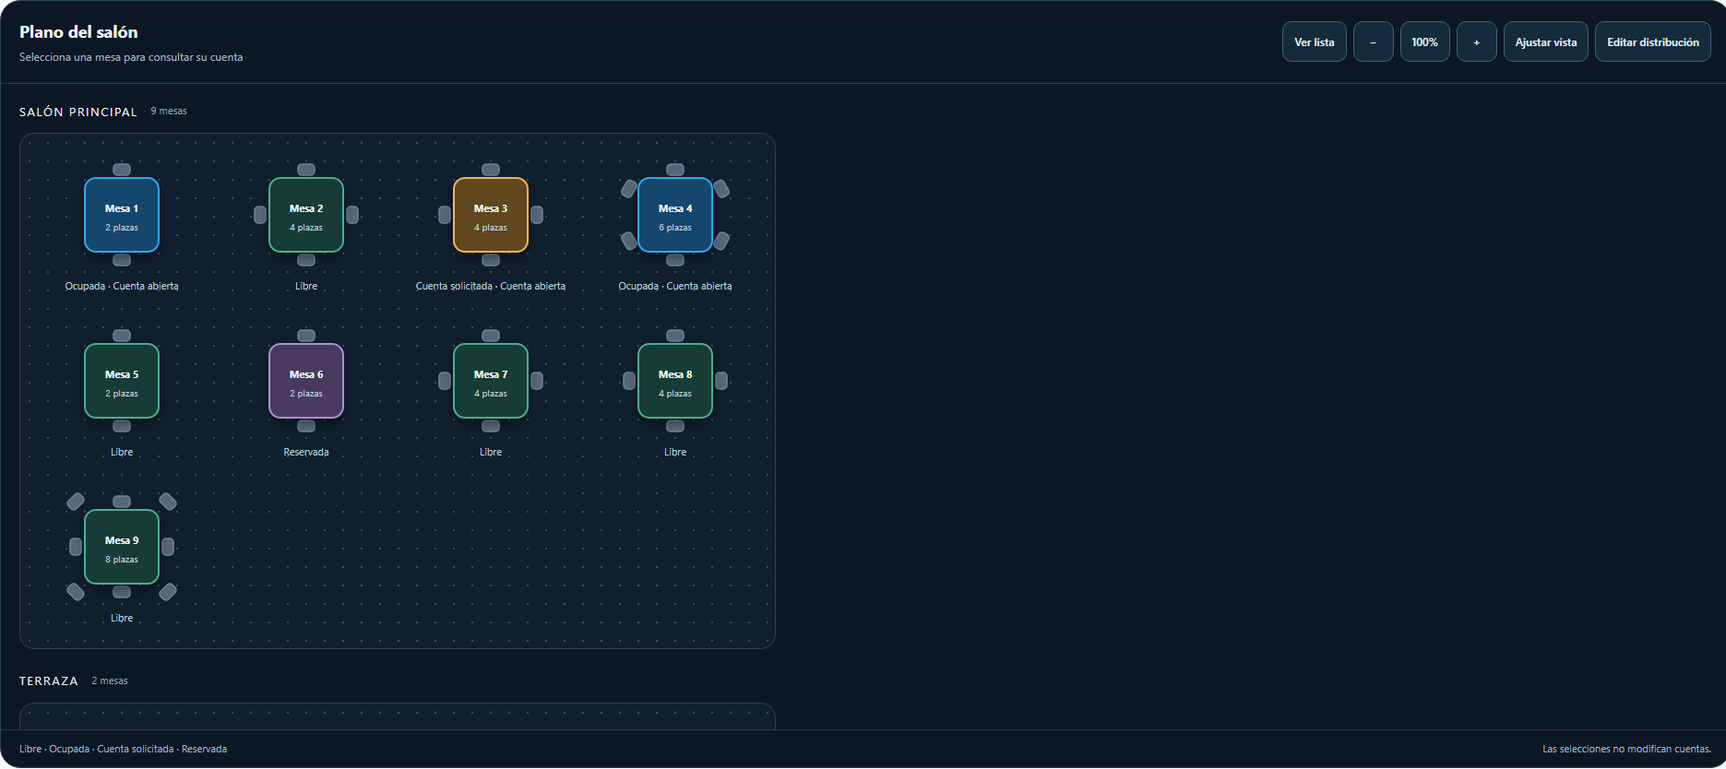
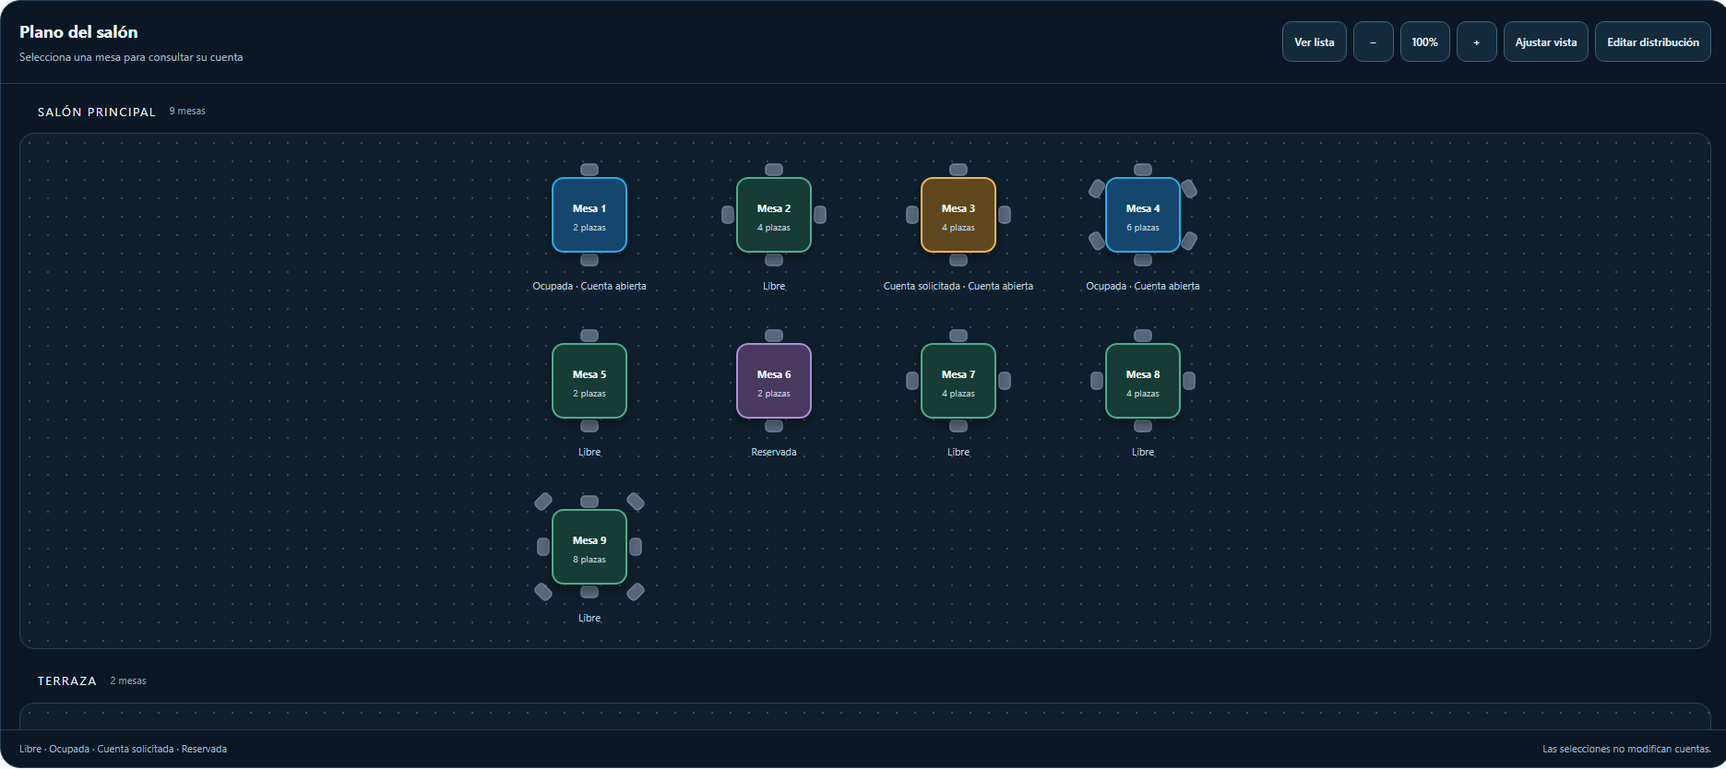
fix(restaurant): keep floor layout editing demo-only

diff --git a/src/modules/restaurant/components/RestaurantTables.tsx b/src/modules/restaurant/components/RestaurantTables.tsx
@@ -3,6 +3,7 @@ import { ArrowRight, Clock, Plus, Search, Users, X } from 'lucide-react'
 import type { Order, Product } from '../../../types'
 import type { RestaurantSector, RestaurantTable } from '../types'
 import type { FloorAction } from '../domain/restaurantFloor'
+import { dispatchRestaurantFloorAction } from '../domain/restaurantFloorEditorPolicy'
 
 import { RestaurantFloorCanvas } from './RestaurantFloorCanvas'
 import { RestaurantFloorManager } from './RestaurantFloorManager'
@@ -26,7 +27,7 @@ const minutesSince = (value: string | undefined, now: number) => {
   return Number.isNaN(opened.getTime()) ? null : Math.max(0, Math.floor((now - opened.getTime()) / 60000))
 }
 const STATUS_LABEL: Record<string, string> = { pending: 'Pendiente', preparing: 'En preparación', ready: 'Listo', ready_for_pickup: 'Listo', delivered: 'Entregado' }
-export function RestaurantTables({ tables, sectors, canManageFloor, onFloorAction, orders, products, customers = [], onSaveCustomer, onAssignCustomer, enabled, initialTableId, onOpenTableOrder, onUpdateTableStatus, onRequestBill, onReopenBill, onPayment, onAddProduct, onPrintBatch, onCancelOrderItem, onCreateProduct, onStartTour }: { tables: RestaurantTable[]; sectors: RestaurantSector[]; canManageFloor: boolean; onFloorAction: (action: FloorAction) => { ok: boolean; error?: string } | Promise<{ ok: boolean; error?: string }>; orders: Order[]; products: Product[]; customers?: RestaurantCustomer[]; onSaveCustomer?: (draft: CustomerDraft) => (RestaurantCustomer | null) | Promise<RestaurantCustomer | null>; onAssignCustomer?: (orderId: string, customerId: string | undefined) => void | Promise<void>; enabled: boolean; initialTableId?: string | null; onOpenTableOrder: (table: RestaurantTable & { customerId?: string; customerName?: string; customerPhone?: string }) => void | Promise<void>; onUpdateTableStatus: (tableId: string, status: RestaurantTable['status']) => void | Promise<void>; onRequestBill: (tableId: string) => void | Promise<void>; onReopenBill: (tableId: string) => void | Promise<void>; onPayment: (orderId: string, input: Payment) => void | Promise<void>; onAddProduct: (orderId: string, input: ProductInput) => void | Promise<void>; onPrintBatch: (orderId: string) => boolean | Promise<boolean>; onCancelOrderItem?: (orderId: string, itemId: string, quantity: number) => boolean | Promise<boolean>; onCreateProduct: (tableId: string, input: { name: string; categoryName: string; price: number; preparationArea: string }, orderId?: string) => void | Promise<void>; onStartTour?: () => void }) {
+export function RestaurantTables({ tables, sectors, canManageFloor, canEditLayout, onFloorAction, orders, products, customers = [], onSaveCustomer, onAssignCustomer, enabled, initialTableId, onOpenTableOrder, onUpdateTableStatus, onRequestBill, onReopenBill, onPayment, onAddProduct, onPrintBatch, onCancelOrderItem, onCreateProduct, onStartTour }: { tables: RestaurantTable[]; sectors: RestaurantSector[]; canManageFloor: boolean; canEditLayout: boolean; onFloorAction: (action: FloorAction) => { ok: boolean; error?: string } | Promise<{ ok: boolean; error?: string }>; orders: Order[]; products: Product[]; customers?: RestaurantCustomer[]; onSaveCustomer?: (draft: CustomerDraft) => (RestaurantCustomer | null) | Promise<RestaurantCustomer | null>; onAssignCustomer?: (orderId: string, customerId: string | undefined) => void | Promise<void>; enabled: boolean; initialTableId?: string | null; onOpenTableOrder: (table: RestaurantTable & { customerId?: string; customerName?: string; customerPhone?: string }) => void | Promise<void>; onUpdateTableStatus: (tableId: string, status: RestaurantTable['status']) => void | Promise<void>; onRequestBill: (tableId: string) => void | Promise<void>; onReopenBill: (tableId: string) => void | Promise<void>; onPayment: (orderId: string, input: Payment) => void | Promise<void>; onAddProduct: (orderId: string, input: ProductInput) => void | Promise<void>; onPrintBatch: (orderId: string) => boolean | Promise<boolean>; onCancelOrderItem?: (orderId: string, itemId: string, quantity: number) => boolean | Promise<boolean>; onCreateProduct: (tableId: string, input: { name: string; categoryName: string; price: number; preparationArea: string }, orderId?: string) => void | Promise<void>; onStartTour?: () => void }) {
   const [selectedZone, setSelectedZone] = useState('all')
   const [managing, setManaging] = useState(false)
   const [editingLayout, setEditingLayout] = useState(false)
@@ -147,6 +148,7 @@ export function RestaurantTables({ tables, sectors, canManageFloor, onFloorActio
   const occupiedCount = liveTables.filter(table => table.status === 'occupied').length
   const billCount = liveTables.filter(table => table.status === 'bill_requested').length
   const reservedCount = liveTables.filter(table => table.status === 'reserved').length
+  const handleFloorLayoutSave = (action: FloorAction) => dispatchRestaurantFloorAction(action, canEditLayout, onFloorAction)
 
   return <div className="space-y-4">
     <header className="flex flex-col gap-3 sm:flex-row sm:items-center sm:justify-between"><div><h1 className="text-2xl font-bold text-slate-900">Salón & Mesas</h1><p className="text-sm text-slate-500">Selecciona una mesa para ver su pedido y cuenta.</p></div><div className="flex flex-wrap items-center gap-2">{onStartTour && <button data-tour="tables-start-tour" type="button" onClick={onStartTour} className="rounded-xl border border-slate-200 bg-white px-3 py-2 text-sm font-semibold text-slate-800 transition-colors hover:border-slate-300 hover:bg-slate-50 focus-visible:outline focus-visible:outline-2 focus-visible:outline-offset-2 focus-visible:outline-blue-600">¿Cómo funciona?</button>}{canManageFloor && <button type="button" disabled={editingLayout} onClick={() => setManaging(value => !value)} className="rounded-xl border border-slate-200 bg-white px-4 py-2 text-sm font-semibold text-slate-800 transition-colors hover:border-slate-300 hover:bg-slate-50 focus-visible:outline focus-visible:outline-2 focus-visible:outline-offset-2 focus-visible:outline-blue-600">{managing ? 'Volver al salón' : 'Administrar salón'}</button>}</div></header>
@@ -156,7 +158,7 @@ export function RestaurantTables({ tables, sectors, canManageFloor, onFloorActio
     {!activeSectors.length && !managing && <p data-tour="tables-empty-state" className="rounded-xl border border-dashed border-slate-300 p-5 text-sm text-slate-600">No hay sectores activos configurados. {canManageFloor ? 'Usa Administrar salón para crear el primero.' : 'Pide a un administrador que configure el salón.'}</p>}
     {!enabled && <p className="rounded-xl border border-amber-200 bg-amber-50 p-3 text-sm text-amber-900">Debes iniciar un turno antes de realizar operaciones.</p>}
     {!managing && <>
-    <RestaurantFloorCanvas tables={filteredTables} sectors={sectors} selectedId={selected?.id} canEdit={canManageFloor} onEditingChange={setEditingLayout} onSave={onFloorAction} onSelect={table => { setSelected(table); setShowAdd(false); setPaying(false); setCustomerId('') }} />
+    <RestaurantFloorCanvas tables={filteredTables} sectors={sectors} selectedId={selected?.id} canEdit={canEditLayout} onEditingChange={setEditingLayout} onSave={handleFloorLayoutSave} onSelect={table => { setSelected(table); setShowAdd(false); setPaying(false); setCustomerId('') }} />
     </>}
     {selected && <div className="fixed inset-0 z-[100] flex justify-end bg-slate-950/45" onClick={() => setSelected(null)}><aside data-floor-details role="dialog" aria-modal="true" aria-label={`Detalle de ${selected.name}`} onClick={(event) => event.stopPropagation()} className="flex h-full w-full max-w-xl flex-col overflow-y-auto bg-white shadow-2xl"><header className="sticky top-0 z-10 flex items-start justify-between border-b border-slate-200 bg-white px-4 py-4 sm:px-5"><div className="min-w-0"><div className="flex flex-wrap items-center gap-2"><h2 className="text-xl font-bold text-slate-900 [overflow-wrap:anywhere]">{selected.name}</h2><span className={`rounded-full px-2.5 py-1 text-[10px] font-bold uppercase tracking-wide ${selected.status === 'bill_requested' ? 'bg-amber-100 text-amber-900' : selected.status === 'occupied' ? 'bg-blue-100 text-blue-800' : 'bg-emerald-100 text-emerald-800'}`}>{selected.status === 'bill_requested' ? 'Cuenta solicitada' : selected.status === 'occupied' ? 'Ocupada' : selected.status === 'reserved' ? 'Reservada' : 'Libre'}</span></div><p className="mt-1 text-xs text-slate-500">{sectors.find(s => s.id === selected.sectorId)?.name || 'Sin sector'} · {selected.capacity} plazas</p>{order && <p className="mt-1 text-xs text-slate-500">Pedido #{order.displayNumber}</p>}</div><button type="button" aria-label="Cerrar" onClick={() => setSelected(null)} className="rounded-lg p-2 text-slate-600 transition-colors hover:bg-slate-100 focus-visible:outline focus-visible:outline-2 focus-visible:outline-blue-600"><X className="h-4 w-4" /></button></header>
       <div className="flex-1 space-y-4 px-4 py-4 sm:px-5">

diff --git a/src/modules/restaurant/components/RestaurantFloorCanvas.tsx b/src/modules/restaurant/components/RestaurantFloorCanvas.tsx
@@ -1,4 +1,4 @@
-import { memo, useRef, useState } from 'react'
+import { memo, useEffect, useRef, useState } from 'react'
 import type { RestaurantSector, RestaurantTable } from '../types'
 import { floorPositionsOverlap, savedFloorPosition, type FloorAction } from '../domain/restaurantFloor'
 import './restaurantFloorCanvas.css'
@@ -42,11 +42,25 @@ export function RestaurantFloorCanvas({ tables, sectors, canEdit, selectedId, on
   const [editId, setEditId] = useState<string | null>(null)
   const [error, setError] = useState('')
   const [busy, setBusy] = useState(false)
+  const [viewportWidth, setViewportWidth] = useState(820)
   const viewport = useRef<HTMLDivElement>(null)
   const sectorIds = useRef<Record<string, string>>({})
   const revisions = useRef<Record<string, number>>({})
   const drag = useRef<{ id: string; x: number; y: number; start: Point } | null>(null)
   const groups = [...new Set(tables.map(t => t.sectorId || 'unassigned'))].map(id => ({ id, name: sectors.find(s => s.id === id)?.name || 'Sin sector', tables: tables.filter(t => (t.sectorId || 'unassigned') === id) }))
+  useEffect(() => {
+    const element = viewport.current
+    if (!element) return
+    const updateWidth = () => setViewportWidth(current => current === element.clientWidth ? current : element.clientWidth)
+    updateWidth()
+    if (typeof ResizeObserver === 'undefined') {
+      window.addEventListener('resize', updateWidth)
+      return () => window.removeEventListener('resize', updateWidth)
+    }
+    const observer = new ResizeObserver(updateWidth)
+    observer.observe(element)
+    return () => observer.disconnect()
+  }, [])
   const points = new Map<string, Point>()
   for (const group of groups) {
     const occupied: Point[] = []
@@ -97,7 +111,7 @@ export function RestaurantFloorCanvas({ tables, sectors, canEdit, selectedId, on
         <button type="button" aria-label="Alejar plano" onClick={() => setZoom(v => Math.max(.6, v - .1))}>−</button>
         <button type="button" onClick={() => setZoom(1)} aria-label="Restablecer zoom">{Math.round(zoom * 100)}%</button>
         <button type="button" aria-label="Acercar plano" onClick={() => setZoom(v => Math.min(1.5, v + .1))}>+</button>
-        <button type="button" onClick={() => setZoom(Math.max(.25, Math.min(1, ((viewport.current?.clientWidth || 820) - 40) / Math.max(820, ...groups.flatMap(g => g.tables.map(t => point(t).x + 200))))))}>Ajustar vista</button>
+        <button type="button" onClick={() => setZoom(Math.max(.25, Math.min(1, (viewportWidth - 40) / Math.max(820, ...groups.flatMap(g => g.tables.map(t => point(t).x + 200))))))}>Ajustar vista</button>
         {canEdit && !editing && <button type="button" onClick={() => { sectorIds.current = Object.fromEntries(tables.map(t => [t.id, t.sectorId || ''])); revisions.current = Object.fromEntries(tables.map(t => [t.id, t.layout?.revision || 0])); setEditing(true); onEditingChange(true); setList(false) }}>Editar distribución</button>}
       </div>
     </header>
@@ -111,12 +125,14 @@ export function RestaurantFloorCanvas({ tables, sectors, canEdit, selectedId, on
     <div ref={viewport} data-tour="tables-grid" className="restaurant-floor-scroll">
       {!groups.length && <p className="restaurant-floor-empty">Este sector todavía no tiene mesas.</p>}
       {groups.map(group => {
-        const width = Math.max(820, ...group.tables.map(t => point(t).x + 200))
+        const contentWidth = Math.max(820, ...group.tables.map(t => point(t).x + 200))
+        const width = Math.max(contentWidth, (viewportWidth - 40) / zoom)
         const height = Math.max(220, ...group.tables.map(t => point(t).y + 180))
+        const centeredOffset = Math.max(0, (width - contentWidth) * zoom / 2)
         return <section className="restaurant-floor-sector" key={group.id} aria-label={group.name}>
           <h2>{group.name}<small>{group.tables.length} mesas</small></h2>
           <div className={list ? 'restaurant-floor-list' : 'restaurant-floor-space'} style={list ? undefined : { width: width * zoom, height: height * zoom }}>
-            <div className={list ? undefined : 'restaurant-floor-plane'} style={list ? undefined : { width, height, transform: `scale(${zoom})` }}>
+            <div className={list ? undefined : 'restaurant-floor-plane'} style={list ? undefined : { left: centeredOffset, width: contentWidth, height, transform: `scale(${zoom})` }}>
               {group.tables.map(table => { const p = point(table); const inactive = table.active === false; return <button key={table.id} type="button" data-table-id={table.id} data-tour={inactive ? undefined : table.status === 'occupied' || table.status === 'bill_requested' ? 'tables-active' : table.status === 'available' ? 'tables-available' : undefined} disabled={inactive && !editing} aria-label={`${table.name}, ${table.capacity} plazas, ${inactive ? 'Desactivada' : labels[table.status]}`} aria-pressed={editing ? editId === table.id : selectedId === table.id} className={`restaurant-floor-table ${inactive ? 'inactive' : table.status} ${editing ? 'is-editing' : ''}`} style={list ? undefined : { left:p.x, top:p.y }}
                 onClick={() => editing ? setEditId(table.id) : onSelect(table)}
                 onKeyDown={event => { if (!editing || busy || !['ArrowLeft','ArrowRight','ArrowUp','ArrowDown'].includes(event.key)) return; event.preventDefault(); move(table.id,{x:p.x+(event.key==='ArrowLeft'?-20:event.key==='ArrowRight'?20:0),y:p.y+(event.key==='ArrowUp'?-20:event.key==='ArrowDown'?20:0)}) }}

diff --git a/src/modules/restaurant/domain/__tests__/restaurantFloorEditorPolicy.test.ts b/src/modules/restaurant/domain/__tests__/restaurantFloorEditorPolicy.test.ts
@@ -1,0 +1,40 @@
+/* eslint-disable @typescript-eslint/ban-ts-comment -- Node test executes outside browser TypeScript project. */
+// @ts-nocheck Node executes this file outside the browser TypeScript project.
+import assert from 'node:assert/strict'
+import test from 'node:test'
+import { canEditRestaurantFloorLayout, dispatchRestaurantFloorAction, type RestaurantFloorActionHandler } from '../restaurantFloorEditorPolicy.ts'
+
+const layoutSave = {
+  type: 'layout.save' as const,
+  positions: [{ id: 'table-1', x: 100, y: 100, expectedSectorId: 'sector-1', expectedRevision: 0 }],
+}
+
+test('layout editor requires an administrative permission in demos and stays disabled for real tenants', () => {
+  assert.equal(canEditRestaurantFloorLayout(true, true), true)
+  assert.equal(canEditRestaurantFloorLayout(true, false), false)
+  assert.equal(canEditRestaurantFloorLayout(false, true), false)
+  assert.equal(canEditRestaurantFloorLayout(false, false), false)
+})
+
+test('real tenant layout.save is rejected before the gateway while salon administration stays available', async () => {
+  let calls = 0
+  const handler = () => { calls += 1; return { ok: true } }
+  const canEditLayout = canEditRestaurantFloorLayout(false, true)
+
+  const rejected = await dispatchRestaurantFloorAction(layoutSave, canEditLayout, handler)
+  assert.equal(rejected.ok, false)
+  assert.equal(calls, 0)
+
+  const tableUpdate = { type: 'table.update' as const, id: 'table-1', name: 'Mesa 1', sectorId: 'sector-1', capacity: 4, shape: 'square' as const, active: true }
+  const administered = await dispatchRestaurantFloorAction(tableUpdate, canEditLayout, handler)
+  assert.equal(administered.ok, true)
+  assert.equal(calls, 1)
+})
+
+test('authorized demo layout.save continues through its isolated floor adapter', async () => {
+  let received: unknown
+  const handler: RestaurantFloorActionHandler = action => { received = action; return { ok: true } }
+  const result = await dispatchRestaurantFloorAction(layoutSave, canEditRestaurantFloorLayout(true, true), handler)
+  assert.equal(result.ok, true)
+  assert.equal(received, layoutSave)
+})

diff --git a/src/modules/restaurant/views/RestaurantExperience.tsx b/src/modules/restaurant/views/RestaurantExperience.tsx
@@ -28,6 +28,7 @@ import { RestaurantTables } from '../components/RestaurantTables'
 import type { RestaurantSector, RestaurantTable } from '../types'
 import type { FloorAction } from '../domain/restaurantFloor'
 import { visibleTables } from '../domain/restaurantFloor'
+import { canEditRestaurantFloorLayout } from '../domain/restaurantFloorEditorPolicy'
 import type { InventoryCount, InventoryShiftSnapshot, InventoryMovement, InventoryMovementType, InventoryShiftRow } from '../domain/inventoryEngine'
 import { stockAwareProducts } from '../domain/inventoryEngine'
 import type { CashMovement } from '../domain/cashEngine'
@@ -419,6 +420,8 @@ export function RestaurantExperience({
   const moreDropdownRef = useRef<HTMLDivElement>(null)
   const saleProducts = useMemo(() => stockAwareProducts(products), [products])
   const fallbackCustomerManager = ['owner', 'admin', 'team'].includes(session.role)
+  const canManageFloor = session.can ? session.can('settings.manage') : ['owner', 'admin', 'team'].includes(session.role)
+  const canEditFloorLayout = canEditRestaurantFloorLayout(isDemo, canManageFloor)
   const canViewCustomerHistory = session.can ? session.can('orders.read') || session.can('sales.read') || session.can('cash.close') : fallbackCustomerManager
   const canManageCustomers = session.can ? session.can('customers.manage') : fallbackCustomerManager
   const canCreateCustomer = Boolean(onSaveCustomer) && (session.can ? session.can('sales.create') : true)
@@ -1124,7 +1127,8 @@ export function RestaurantExperience({
             <RestaurantTables
               tables={tables}
               sectors={sectors}
-              canManageFloor={session.can ? session.can('settings.manage') : ['owner', 'admin', 'team'].includes(session.role)}
+              canManageFloor={canManageFloor}
+              canEditLayout={canEditFloorLayout}
               onStartTour={canRunTablesTour ? startTablesTour : undefined}
               onFloorAction={onFloorAction}
               orders={orders}

diff --git a/src/modules/restaurant/domain/restaurantFloorEditorPolicy.ts b/src/modules/restaurant/domain/restaurantFloorEditorPolicy.ts
@@ -1,0 +1,22 @@
+import type { FloorAction } from './restaurantFloor.ts'
+
+export type RestaurantFloorActionResult = { ok: boolean; error?: string }
+export type RestaurantFloorActionHandler = (action: FloorAction) => RestaurantFloorActionResult | Promise<RestaurantFloorActionResult>
+
+// Production remains closed until layout.save has been certified for an authorized QA tenant.
+export const REAL_TENANT_FLOOR_LAYOUT_EDITING_ENABLED = false
+
+export function canEditRestaurantFloorLayout(isDemo: boolean, canManageFloor: boolean): boolean {
+  return canManageFloor && (isDemo || REAL_TENANT_FLOOR_LAYOUT_EDITING_ENABLED)
+}
+
+export function dispatchRestaurantFloorAction(
+  action: FloorAction,
+  canEditLayout: boolean,
+  onFloorAction: RestaurantFloorActionHandler,
+): RestaurantFloorActionResult | Promise<RestaurantFloorActionResult> {
+  if (action.type === 'layout.save' && !canEditLayout) {
+    return { ok: false, error: 'La edición de posiciones no está disponible para esta empresa.' }
+  }
+  return onFloorAction(action)
+}

diff --git a/CONTEXTO.md b/CONTEXTO.md
@@ -1,5 +1,13 @@
 # Continuidad del proyecto PACHAX
 
+## Cierre de publicación del mapa de Restaurante — 08/11/2026
+
+- Corrección limitada para PR #31, aislada en `codex/restaurant-floor-editor-production-gate-20261108`, creada sobre el HEAD exacto de PR #31. El checkout activo de Expreso Punata y `cambios-dario` no se modificaron. La rama original del PR permanece en su worktree.
+- Gate centralizado: el editor visual exige permiso administrativo y solo se habilita para Demo/Studio; para empresas reales `REAL_TENANT_FLOOR_LAYOUT_EDITING_ENABLED` sigue explícitamente en `false`. `layout.save` también se rechaza en el callback antes de llamar al adaptador. El permiso convencional mantiene intacta la administración del salón.
+- El ajuste del plano usa el ancho útil y centra la distribución sin alterar coordenadas. En móvil conserva el desplazamiento táctil. Browser QA real con Chrome aprobó nueve resoluciones 320–1920 px, interacción touch/ratón, edición simulada, guardado/recarga local, selección, operaciones, tutorial y escenarios vacíos/roles; 0 requests de Production y 0 errores de navegador.
+- Comprobaciones locales: TypeScript PASS; 122 pruebas de dominio PASS; ESLint focal PASS; build emulador PASS y guard del runtime aislado (100 artefactos, 0 sourcemaps, 0 referencias prohibidas); backend Restaurante 58/58 en emuladores; guard Preview 5/5; rutas demo 2/2; landing vacía/sintética 9/9 resoluciones cada una y fallback sin gateway PASS; integración demo/landing con Hamburguesa y Comercio PASS, `connect-src 'none'`, 0 solicitudes externas/Production; contratos Platform 302/302; Billing Core 34 assertions y ciclo UI PASS. El test CDP del mapa aprobó nueve anchos, interacción touch/ratón, edición demo, guardado/recarga, tutorial, operaciones y estados vacíos/roles; 0 solicitudes de Production y 0 errores de navegador.
+- `npm run lint` global encuentra 467 problemas preexistentes fuera de los archivos de esta corrección; ESLint focal sobre todos los archivos cambiados sí pasa y es el gate del workflow de Restaurante. El entorno local usa Node 24; workflows de CI fijan Node 22. Sin merge ni despliegue ejecutados. Pendiente: publicar el PR apilado, verificar los tres workflows en el HEAD, integrar únicamente tras gates y comprobar Production. El editor productivo queda cerrado hasta certificación futura en empresa QA autorizada. No se modificaron Functions, Billing Core, Nightclub ni configuraciones Firebase.
+
 ## Preparación de Fase C.1
 
 - El contrato backend del plano de Restaurante comprueba colisiones dentro de la transacción y conserva la compatibilidad de las mesas sin posición. La publicación requiere autorización independiente para backend e interfaz. El [procedimiento de despliegue y reversión](docs/RESTAURANT-FLOOR-RELEASE.md) identifica el gateway, el orden de publicación y las verificaciones de cada etapa.

diff --git a/docs/restaurant-interactive-floor.md b/docs/restaurant-interactive-floor.md
@@ -30,6 +30,14 @@ No se cambian motores de pedidos, inventario, caja, pagos, Billing Core, Authent
 - node scripts/test-restaurant-floor-browser.mjs: navegador real sobre build emulador, mouse/touch CDP, nueve anchos, selección sin mutación, cancelación, edición, arrastre y recarga. Capturas y reporte en docs/restaurant-floor-evidence. Los datos sintéticos de salón grande solo se cargan en sessionStorage del navegador local de prueba.
 - Regresión de landing con fixture vacío y sintético de Fase B.2, integración Hamburger/Retail y guards de aislamiento.
 
+## Cierre de publicación: editor de posiciones
+
+La política de disponibilidad del editor visual está centralizada en `restaurantFloorEditorPolicy.ts`. La edición requiere permiso de administración y una sesión demo/Studio; para tenants reales `REAL_TENANT_FLOOR_LAYOUT_EDITING_ENABLED` permanece en `false`. El editor no se anuncia en la interfaz productiva y `layout.save` se rechaza de nuevo en el callback antes de llamar al adaptador. Las funciones convencionales de administración del salón siguen sujetas a su permiso existente. Este bloqueo de interfaz no reemplaza la autorización del comando backend.
+
+La prueba de navegador con Chrome real usa puntero y touch emulado en 320, 360, 375, 390, 430, 768, 1024, 1440 y 1920 px. Comprueba selección, operaciones del salón en datos demo, editor autorizado, guardado y recarga local, sectores, tutorial, permisos y roles; el reporte registra cero solicitudes de red productivas. A 1440 y 1920 px el lienzo se ajusta al ancho útil y centra la distribución sin cambiar coordenadas persistidas; en móvil se conserva el paneo horizontal táctil.
+
+Para volver a habilitar la persistencia de posiciones en tenants reales se requiere certificación separada con una empresa QA autorizada, seguida de una revisión explícita del gate. No se habilita mediante query params, `localStorage` ni permisos por sí solos.
+
 ## Límites de revisión
 No se certifica impresión física, hardware ni conectividad entre dispositivos físicos; el contrato transaccional y la concurrencia se comprueban en emuladores. Las coordenadas soportan hasta 200 mesas por guardado, con límites espaciales explícitos; los salones que excedan el área requieren revisión de dimensiones. El plano admite pan nativo; el zoom se controla con botones, no con gestos de pinza. No se ha iniciado el mapa de Nightclub.
 
